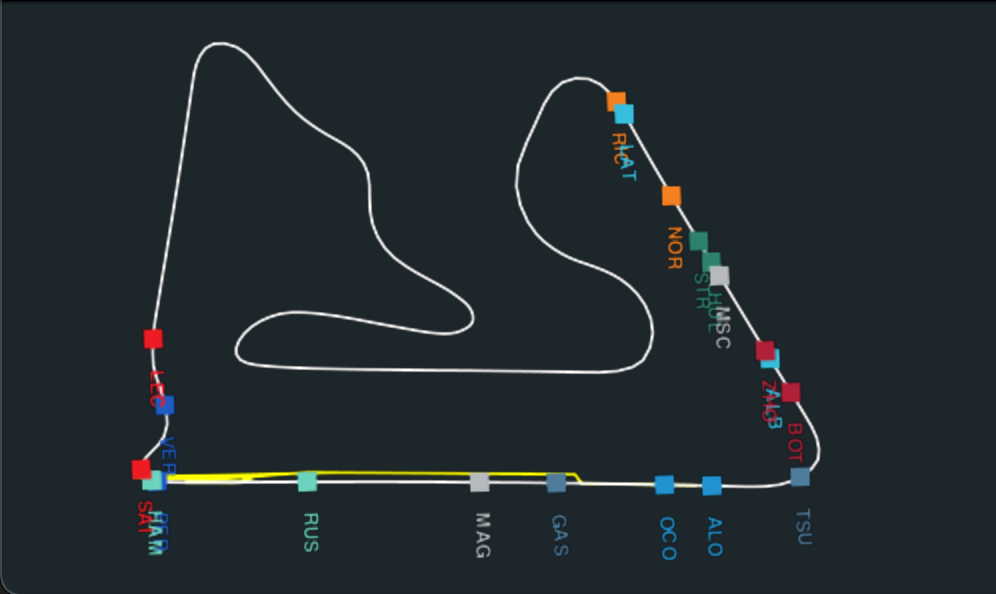
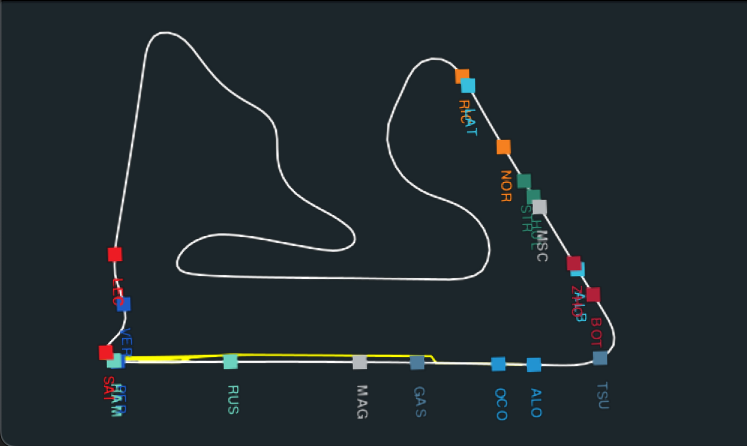
* Update git ignores * Add build script * Set version during build * Tweak image sizes

diff --git a/main.go b/main.go
@@ -20,6 +20,7 @@ import (
 	"f1gopher/ui"
 	"flag"
 	"fmt"
+	_ "net/http/pprof"
 	"os"
 
 	"github.com/AllenDang/giu"
@@ -30,9 +31,10 @@ import (
 //go:embed "JetBrainsMono-Regular.ttf"
 var DefaultFont []byte
 
-func main() {
-	// defer profile.Start(profile.ProfilePath(".")).Stop()
+var Version string
+var BuildTime string
 
+func main() {
 	autoLivePtr := flag.Bool("autoLive", false, "If a live session is in progress display it on startup")
 	logPtr := flag.Bool("log", false, "Enable logging")
 	flag.Parse()
@@ -50,12 +52,12 @@ func main() {
 	defer logger.Sync() // flushes buffer, if any
 	sugar := logger.Sugar()
 
-	sugar.Infof("F1Gopher v%s", version)
+	sugar.Infof("F1Gopher v%s", Version)
 
 	giu.SetDefaultFontFromBytes(DefaultFont, 14.0)
 
 	wnd := giu.NewMasterWindow(
-		fmt.Sprintf("F1Gopher - v%s", version),
+		fmt.Sprintf("F1Gopher - v%s", Version),
 		1920,
 		1080,
 		0)
